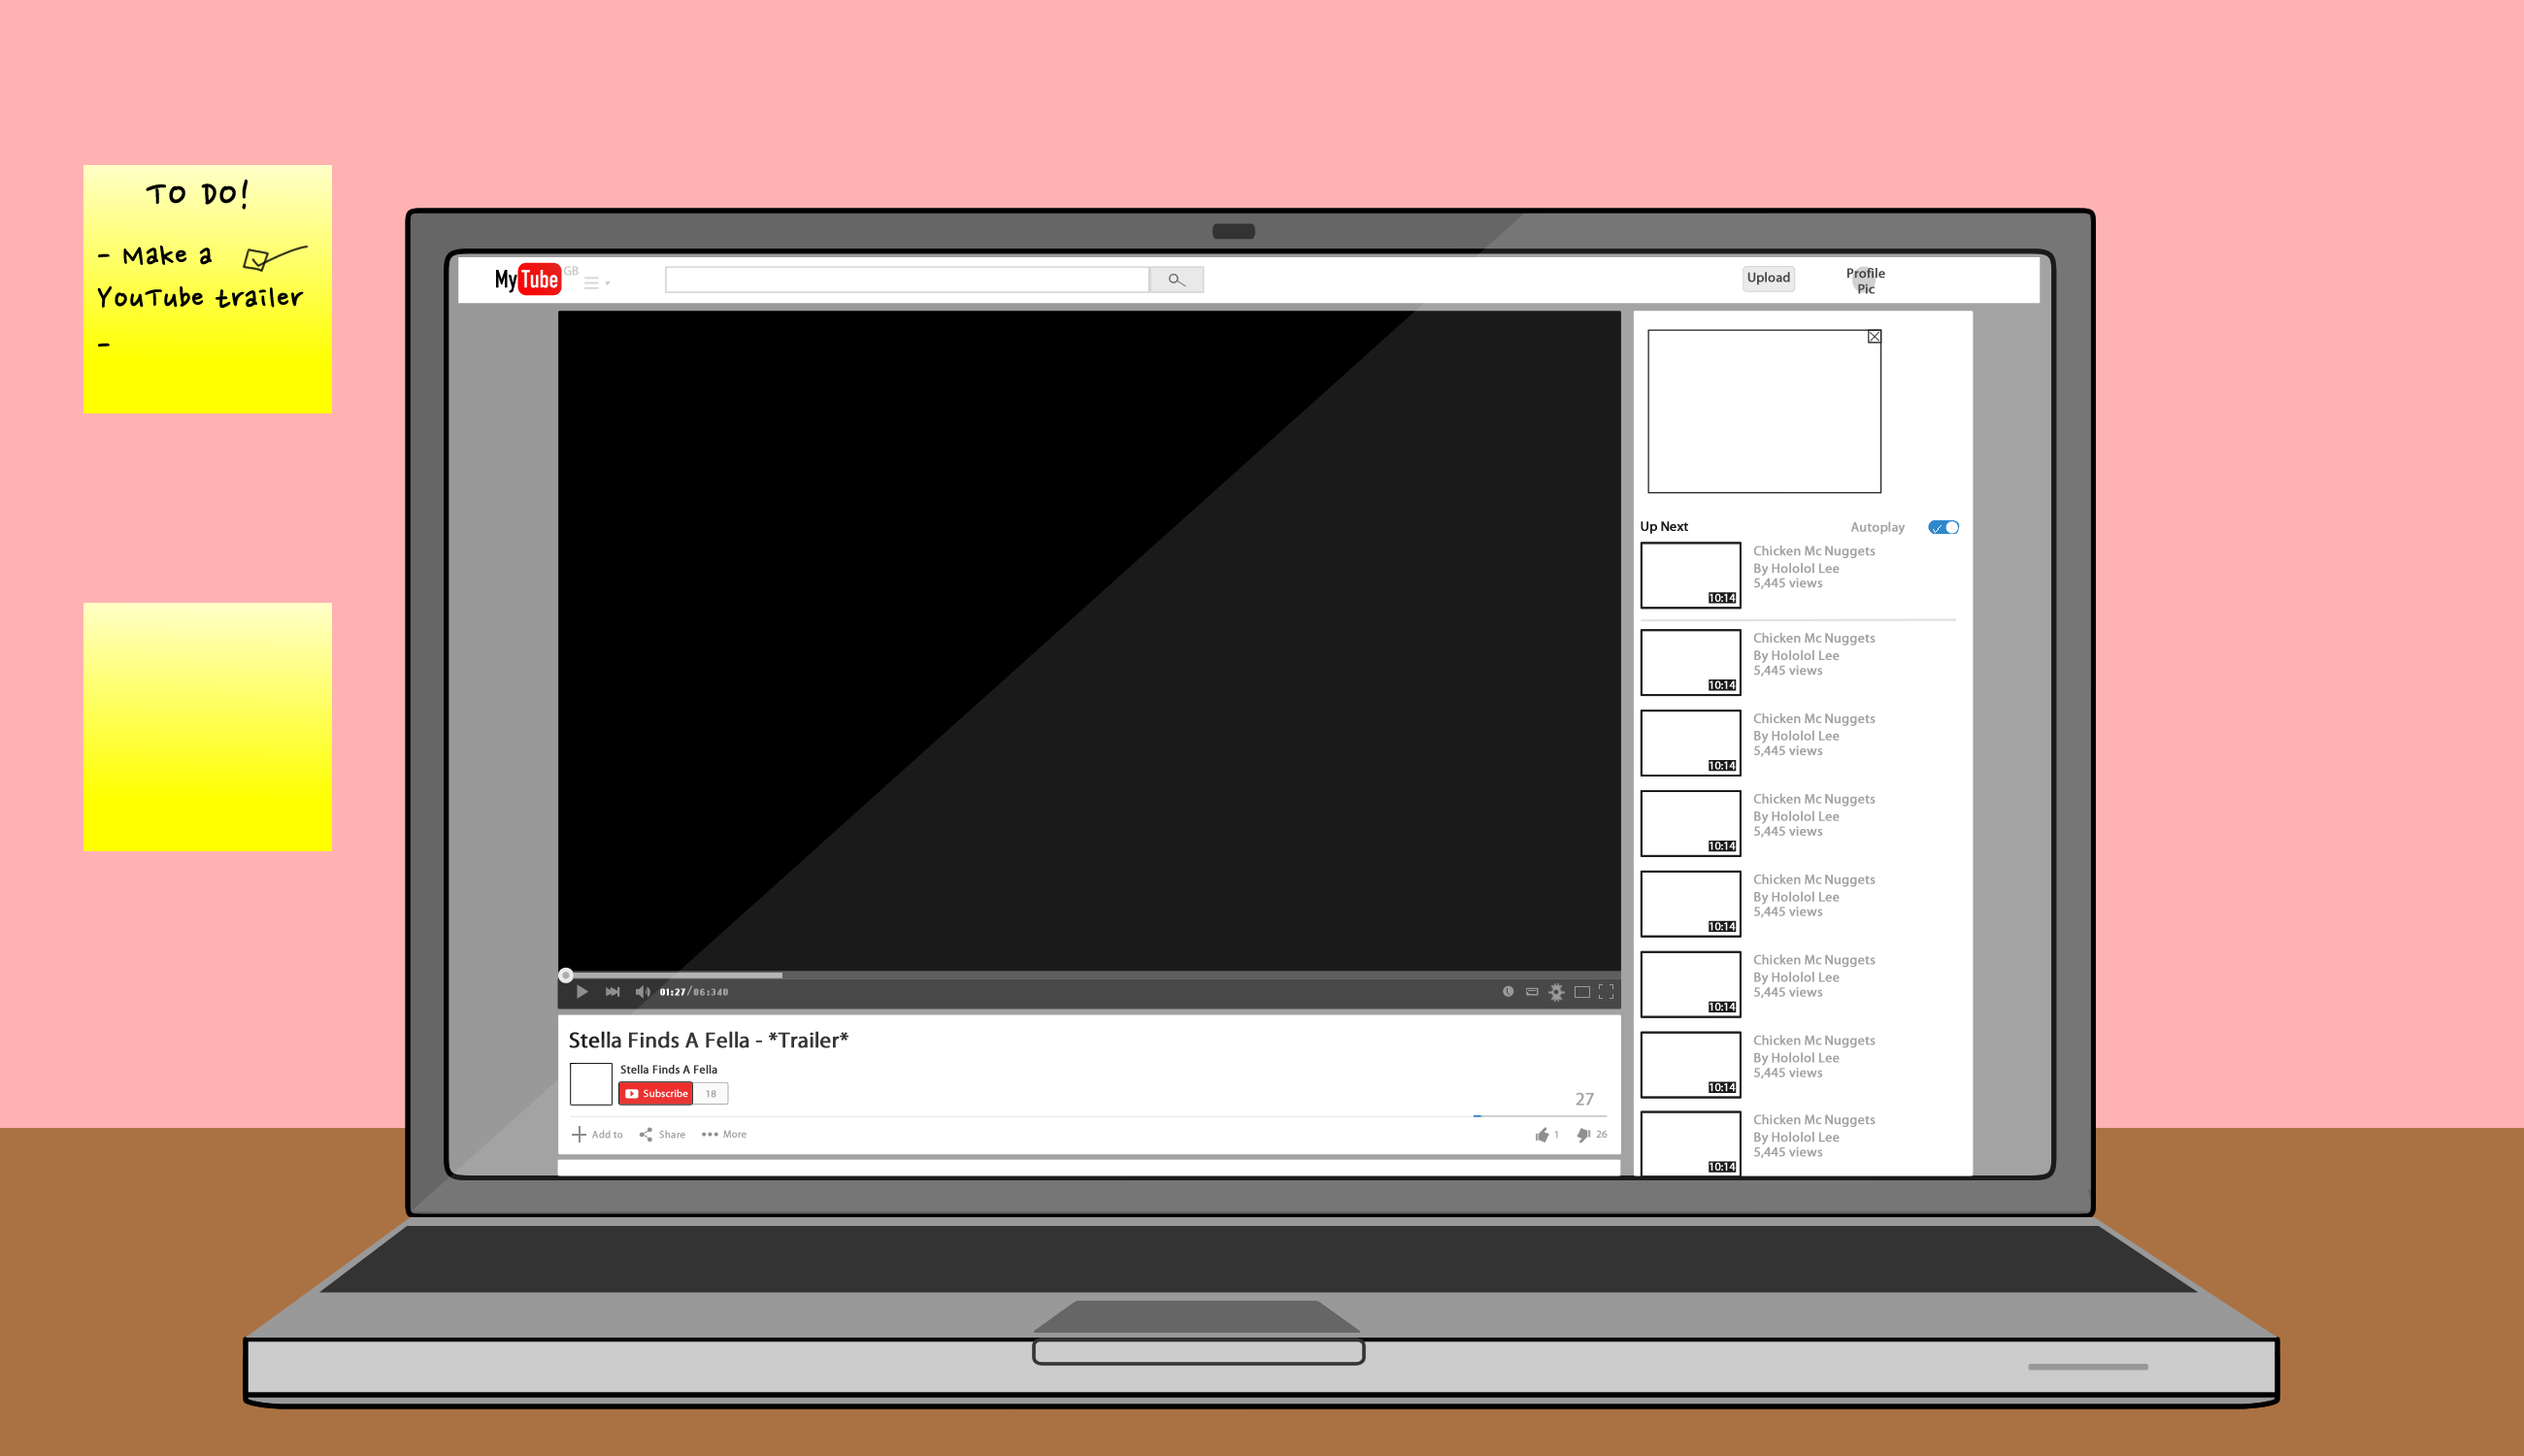
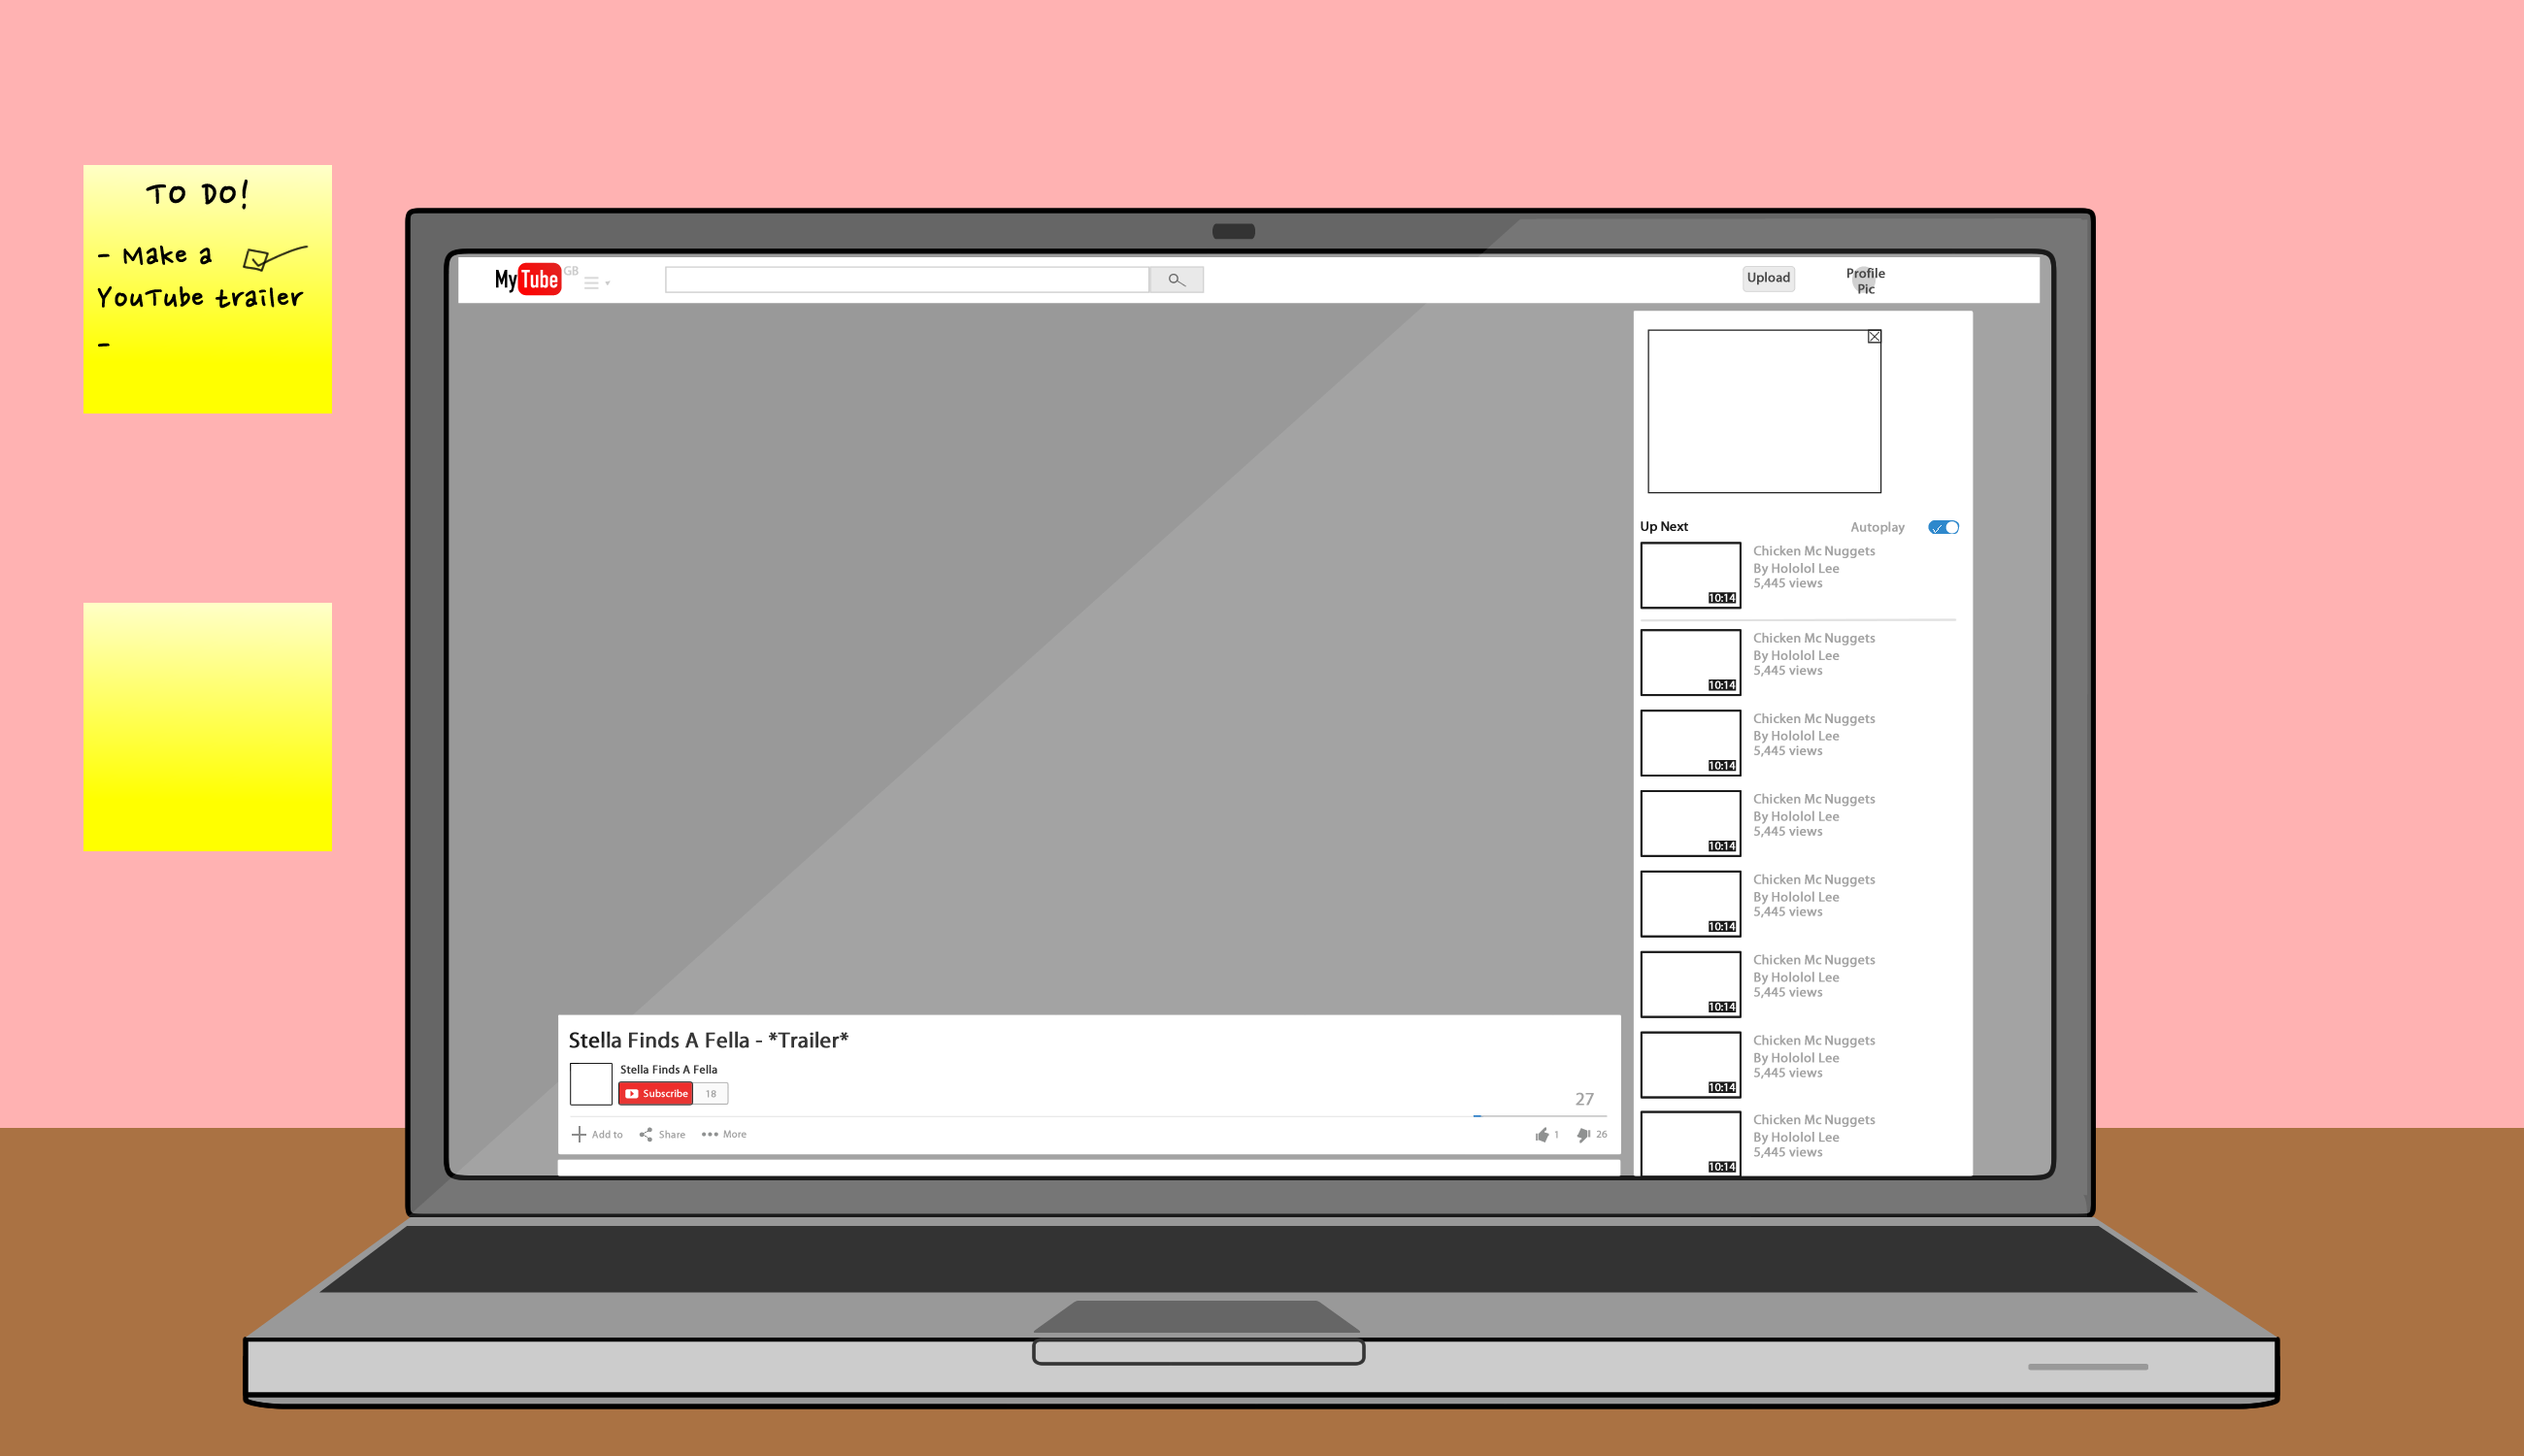
Attempt to get video to show and hide properly

Changed region(s): [[0.2181, 0.2147, 0.6542, 0.7053]]

diff --git a/scripts/youtube.js b/scripts/youtube.js
@@ -1,0 +1,30 @@
+$(document).ready(function() {
+    
+    /*
+    This hides the image that is shown later on scroll. Might be better to set 
+    up a css class for this and set the display: none; property. This might 
+    avoid seeing the content briefly before our script file loads and hides it. 
+    */
+    
+    
+    /*
+    Function that gets called every time the page is scrolled in either direction. 
+    We've set up a variable to store the scroll position. You can use conditional 
+    statements to fire off events based on that number. Here we're showing an image 
+    if were over 250 and hiding it again if the number is lower than that. 
+    */
+    $(document).scroll(function(e) {
+        var scrollPosition = $("body").scrollTop();
+        console.log(scrollPosition); 
+       
+        if(scrollPosition < 4850) {
+            $("#theVideo").hide();
+        } else {
+           (scrollPosition)
+           $("#theVideo").fadeIn();
+        } 
+        
+    });
+    
+});
+

diff --git a/index.html b/index.html
@@ -40,6 +40,11 @@
         </div> 
         <!--Panel 3 YouTube-->
         <div class="parallax-window" data-parallax="scroll" data-image-src="images/backgrounds/panel_2.png" data-speed="0.01">
+             <div class="video-position">
+                        <video id="theVideo" width="54%" height="500" controls>
+                            <source src="video/OFFICIAL%20TRAILER.mp4" type="video/mp4">
+                        </video> 
+             </div>
         </div> 
         <!--Panel 4 TEXTING-->
         <div class="parallax-window tindor" data-parallax="scroll" data-parallax="scroll" data-image-src="images/backgrounds/panel-3.png" style="width:100%" data-speed="0">
@@ -107,6 +112,7 @@
         <script src="scripts/parallax.js"></script>
         <script src="scripts/scripts.js"></script>
         <script src="scripts/reveal.js"></script>
-
+        <script src="scripts/youtube.js"></script>
+        
     </body>
 </html>

diff --git a/css/main.css b/css/main.css
@@ -231,6 +231,8 @@ clearfix {
    opacity: 0;
 }
 
-
-
+.video-position {
+    padding-left: 22%;
+    padding-top: 600px;
+}
 
